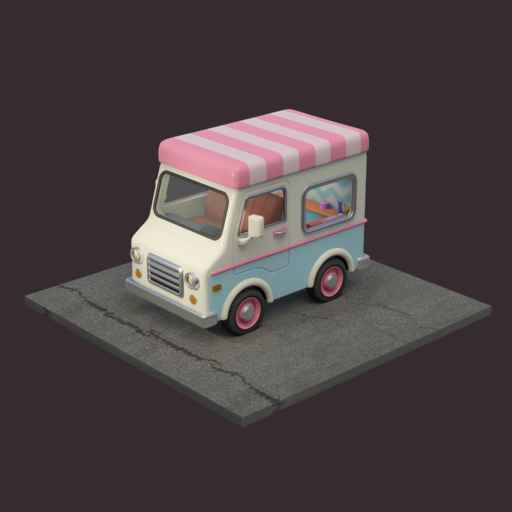
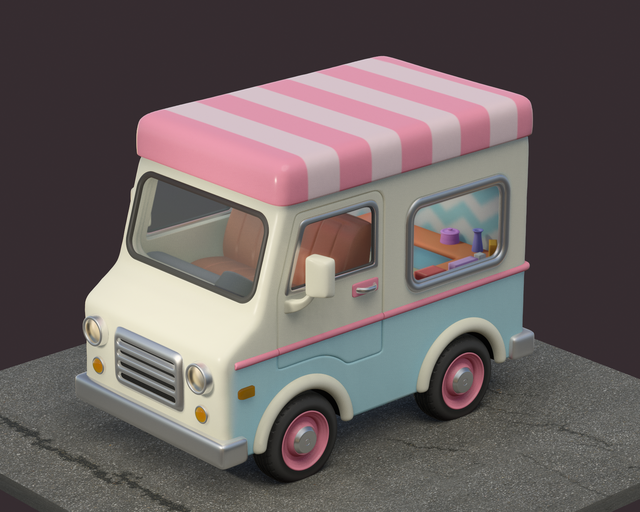
added more items

diff --git a/src/items.ts b/src/items.ts
@@ -15,232 +15,250 @@ export const img = (name: string, aspect_ratio: string): ItemImage => ({
 });
 
 export const items: Item[] = [
+        {
+    title: "red velvet cake",
+    category: "baking",
+    image: img("red_velvet", "5 / 4"),
+    date: "2023-06-16",
+  },
+      {
+    title: "birthday bear",
+    category: "printmaking",
+    image: img("bear_stamp", "5 / 7"),
+    date: "2021-08-25",
+  },
+    {
+    title: "green beetle (watercolor)",
+    category: "painting",
+    image: img("green_beetle", "5 / 4"),
+    date: "2021-06-02",
+  },
   {
     title: "boo!",
     category: "sculpting",
     image: img("boo", "1 / 1"),
-    date: new Date("2024-10-31"),
+    date: "2024-10-31",
   },
   {
     title: "brown butter chocolate chunk blondies",
     category: "baking",
     image: img("blondies", "4 / 5"),
-    date: new Date("2024-10-06"),
+    date: "2024-10-06",
   },
   {
     title: "cake slices",
     category: "sculpting",
     image: img("cake_slices", "1 / 1"),
-    date: new Date("2024-10-06"),
+    date: "2024-10-06",
   },
   {
     title: "ice cream truck",
     category: "sculpting",
-    image: img("icecream_truck", "1 / 1"),
-    date: new Date("2024-10-06"),
+    image: img("icecream_truck", "5 / 4"),
+    date: "2024-10-06",
   },
   {
     title: "Pug Plushie",
     category: "sewing & embroidery",
     image: img("pug_plushie", "1 / 1"),
-    date: new Date("2024-05-09"),
+    date: "2024-05-09",
   },
   {
     title: "Cartoon Cake Slice",
     category: "baking",
     image: img("cartoon_cake", "1 / 1"),
-    date: new Date("2023-11-26"),
+    date: "2023-11-26",
   },
   {
-    title: "Hank",
+    title: "Hank (colored pencil)",
     category: "drawing",
     image: img("hank_1", "2567 / 1712"),
-    date: new Date("2023-03-11"),
+    date: "2023-03-11",
   },
   {
     title: "Flying Saucer",
     category: "sculpting",
     image: img("flying_saucer", "4 / 5"),
-    date: new Date("2023-03-20"),
+    date: "2023-03-20",
   },
   {
     title: "Macarons",
     category: "baking",
     image: img("macarons", "3 / 2"),
-    date: new Date("2023-03-20"),
+    date: "2023-03-20",
   },
   {
     title: "Ice Cream (Acrylic)",
     category: "painting",
     image: img("icecream_painting", "4 / 5"),
-    date: new Date("2021-09-29"),
+    date: "2021-09-29",
   },
   {
     title: "Rooster (Gouache)",
     category: "painting",
     image: img("rooster", "5 / 7"),
-    date: new Date("2021-08-11"),
+    date: "2021-08-11",
   },
   {
     title: 'Pâte Sablée "Cake" With Chantilly Mascarpone',
     category: "baking",
     image: img("63", "5 / 4"),
-    date: new Date("2023-08-29"),
+    date: "2023-08-29",
   },
   {
     title: "3D Hand Lettering",
     category: "calligraphy & lettering",
     image: img("adil", "5 / 4"),
-    date: new Date("2021-11-01"),
+    date: "2021-11-01",
   },
   {
     title: "Conquistador Watchband",
     category: "paracord",
     image: img("conquistadorwatch", "5 / 4"),
-    date: new Date("2021-05-11"),
+    date: "2021-05-11",
   },
   {
     title: "Chocolate Malt Cake",
     category: "baking",
     image: img("chocolatemalt", "1 / 1"),
-    date: new Date("2022-07-08"),
+    date: "2022-07-08",
   },
   {
     title: "pug patch",
     category: "sewing & embroidery",
     image: img("pugpatch", "1 / 1"),
-    date: new Date("2022-08-01"),
+    date: "2022-08-01",
   },
   {
     title: "chocolate chewies",
     category: "baking",
     image: img("chewie", "4 / 5"),
-    date: new Date("2023-12-10"),
+    date: "2023-12-10",
   },
   {
     title: "S'more Blossom Cookies",
     category: "baking",
     image: img("smore", "5 / 4"),
-    date: new Date("2023-12-11"),
+    date: "2023-12-11",
   },
   {
     title: "Coconut Snowman Cookies",
     category: "baking",
     image: img("snowman", "4 / 5"),
-    date: new Date("2023-12-10"),
+    date: "2023-12-10",
   },
   {
     title: "Linzer Cookies",
     category: "baking",
     image: img("linzer", "5 / 4"),
-    date: new Date("2023-12-08"),
+    date: "2023-12-08",
   },
   {
-    title: "KFC Fried Chicken Bucket",
+    title: "KFC Fried Chicken Bucket (Polymer Clay)",
     category: "sculpting",
     image: img("kfc", "5 / 4"),
-    date: new Date("2021-05-01"),
+    date: "2021-05-01",
   },
   {
     title: "biscoff cheesecake",
     category: "baking",
     image: img("biscoff_cheesecake", "1 / 1"),
-    date: new Date("2023-09-01"),
+    date: "2023-09-01",
   },
   {
-    title: "soap bubble",
+    title: "soap bubble (colored pencil)",
     category: "drawing",
     image: img("bubble", "3 / 2"),
-    date: new Date("2021-04-19"),
+    date: "2021-04-19",
   },
   {
     title: "ring with polymer clay stone",
     category: "jewelry & pins",
     image: img("ring", "3 / 2"),
-    date: new Date("2021-11-03"),
+    date: "2021-11-03",
   },
   {
-    title: "hotdog bun",
+    title: "hotdog bun (Polymer Clay)",
     category: "sculpting",
     image: img("hotdogbun", "5 / 4"),
-    date: new Date("2021-10-19"),
+    date: "2021-10-19",
   },
   {
     title: "slice of pepperoni pizza (acrylic)",
     category: "painting",
     image: img("pizza", "1 / 1"),
-    date: new Date("2021-09-21"),
+    date: "2021-09-21",
   },
   {
     title: "Cake I",
     category: "baking",
     image: img("rosette_cake", "4 / 3"),
-    date: new Date("2023-06-07"),
+    date: "2023-06-07",
   },
   {
     title: "dulce de leche cookies",
     category: "baking",
     image: img("dulcedeleche_cookies", "3 / 2"),
-    date: new Date("2023-06-10"),
+    date: "2023-06-10",
   },
   {
-    title: "ice cream in a waffle cone",
+    title: "ice cream in a waffle cone (Polymer Clay)",
     category: "sculpting",
     image: img("icecream", "4 / 5"),
-    date: new Date("2021-04-28"),
+    date: "2021-04-28",
   },
   {
     title: "monkey's fist keyring",
     category: "paracord",
     image: img("monkey_fist", "1 / 1"),
-    date: new Date("2021-04-20"),
+    date: "2021-04-20",
   },
   {
-    title: "an escape",
+    title: "an escape (colored pencil)",
     category: "drawing",
     image: img("sunset", "4 / 5"),
-    date: new Date("2021-08-01"),
+    date: "2021-08-01",
   },
   {
-    title: "gyro wrap",
+    title: "gyro wrap (Polymer Clay)",
     category: "sculpting",
     image: img("gyro", "3 / 2"),
-    date: new Date("2021-05-05"),
+    date: "2021-05-05",
   },
   {
     title: "Cake II",
     category: "baking",
     image: img("vintage_cherry", "4 / 5"),
-    date: new Date("2023-11-24"),
+    date: "2023-11-24",
   },
   {
     title: "courage the cowardly dog",
     category: "sewing & embroidery",
     image: img("courage", "4 / 5"),
-    date: new Date("2022-01-16"),
+    date: "2022-01-16",
   },
   {
     title: "hogwarts crest patch",
     category: "sewing & embroidery",
     image: img("hogwarts_crest", "1 / 1"),
-    date: new Date("2022-03-08"),
+    date: "2022-03-08",
   },
   {
     title: "still life I (oil)",
     category: "painting",
     image: img("stilllife_apples", "5 / 4"),
-    date: new Date("2021-11-28"),
+    date: "2021-11-28",
   },
   {
     title: "molasses spice cookies",
     category: "baking",
     image: img("molasses_spice_cookies", "4 / 5"),
-    date: new Date("2023-08-07"),
+    date: "2023-08-07",
   },
   {
     title: "saguaros in the desert (oil)",
     category: "painting",
     image: img("saguaros", "5 / 4"),
-    date: new Date("2021-12-01"),
+    date: "2021-12-01",
   },
 ];

diff --git a/src/types.d.ts b/src/types.d.ts
@@ -2,18 +2,19 @@ declare global {
   type Category =
     | "none"
     | "all"
+    | "3d printing"
     | "baking"
-    | "drawing"
-    | "painting"
     | "calligraphy & lettering"
+    | "coding"
     | "digital art"
-    | "sculpting"
-    | "3d prints"
-    | "electronics"
-    | "sewing & embroidery"
+    | "drawing"
+    | "electronics & programming"
     | "jewelry & pins"
+    | "painting"
     | "paracord"
-    | "printmaking";
+    | "printmaking"
+    | "sculpting"
+    | "sewing & embroidery";
 
   interface ItemImage {
     thumbnail: string;
@@ -25,7 +26,7 @@ declare global {
     title: string,
     category: Category,
     image: ItemImage,
-    date: Date,
+    date: string,
   }
 
 }

diff --git a/src/App.vue b/src/App.vue
@@ -3,7 +3,7 @@ import { ref, computed } from "vue";
 import { items } from "./items.ts";
 import CardItem from "./components/CardItem.vue";
 
-const categories: Category[] = ["baking", "drawing", "painting", "calligraphy & lettering", "digital art", "sculpting", "3d prints", "electronics", "sewing & embroidery", "jewelry & pins", "paracord", "printmaking"];
+const categories: Category[] = ["3d printing", "baking", "calligraphy & lettering", "electronics & programming", "digital art", "drawing", "jewelry & pins", "painting", "paracord", "printmaking", "sculpting", "sewing & embroidery"]
 
 const categoryRef = ref<Category>("all");
 

diff --git a/src/components/CardItem.vue b/src/components/CardItem.vue
@@ -22,7 +22,8 @@ defineProps<{
   item: Item
 }>()
 
-function formatDate(date: Date) {
+function formatDate(date: string) {
+  const date_= new Date(`${date}T12:00:00-06:30`)
   const months = [
     "JAN",
     "FEB",
@@ -38,11 +39,11 @@ function formatDate(date: Date) {
     "DEC",
   ];
   return (
-    months[date.getMonth()] +
+    months[date_.getMonth()] +
     " " +
-    date.getDate() +
+    date_.getDate() +
     ", " +
-    (date.getFullYear())
+    (date_.getFullYear())
   );
 }
 </script>
